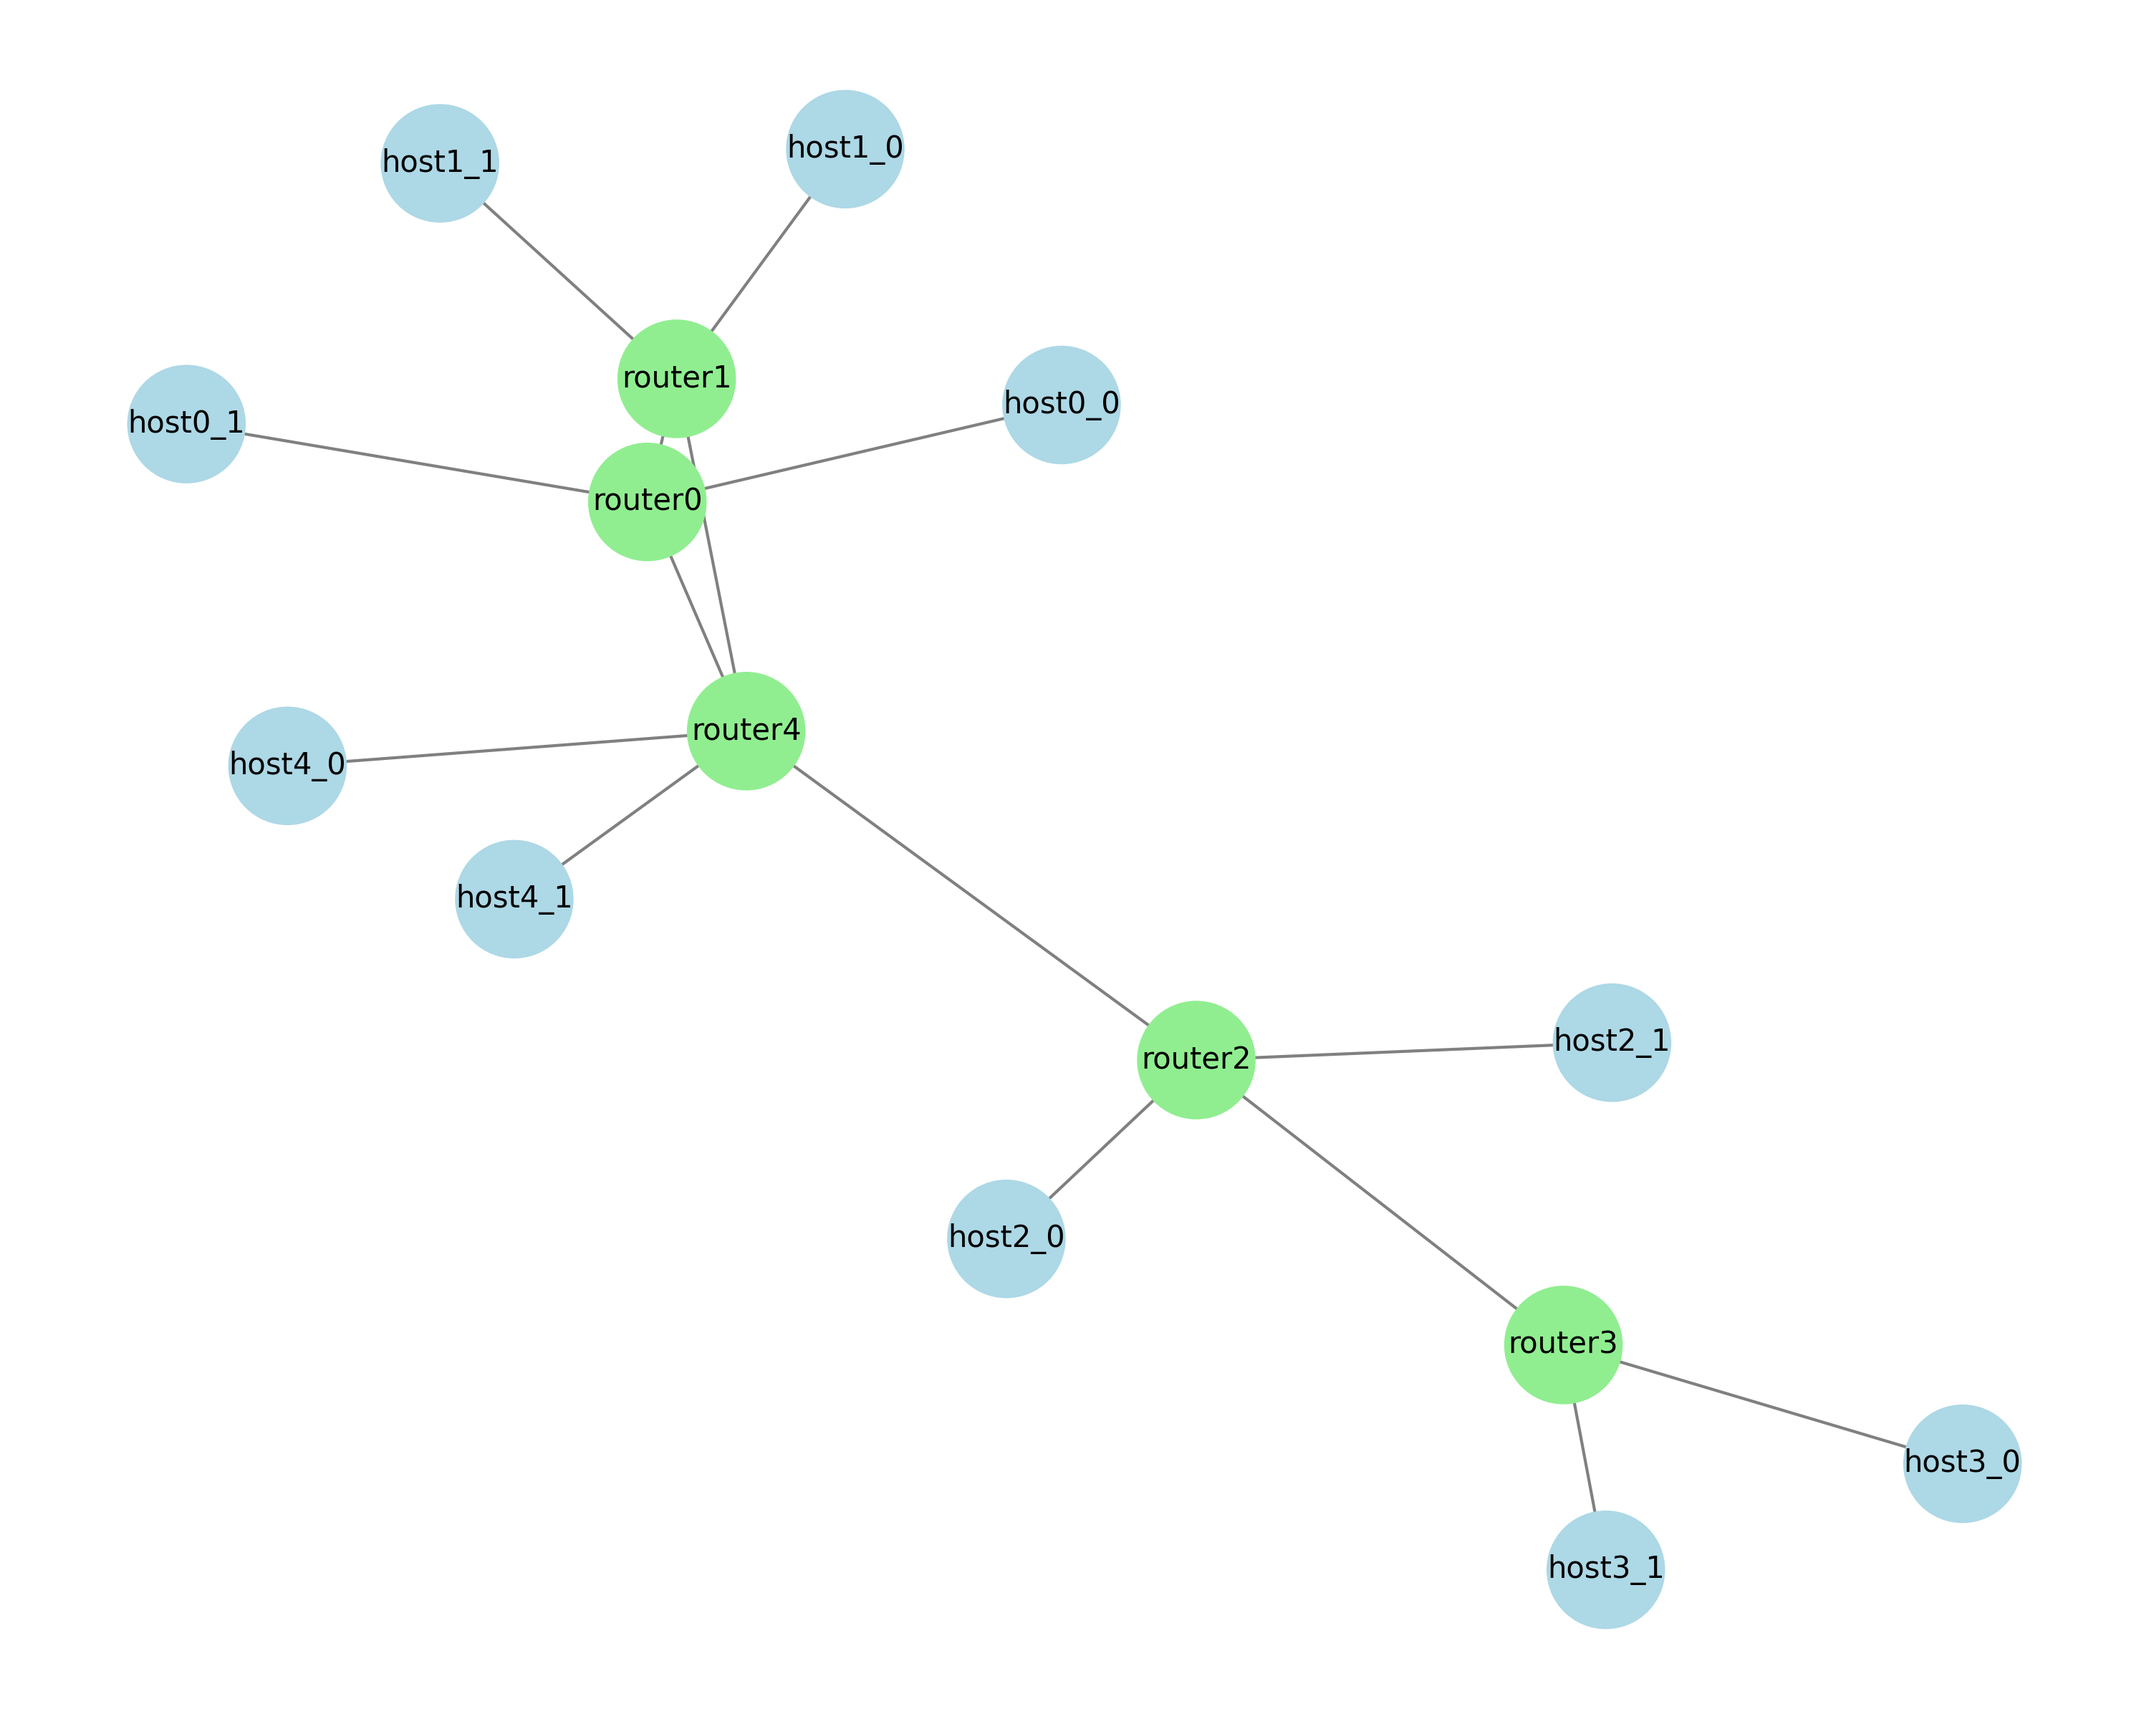
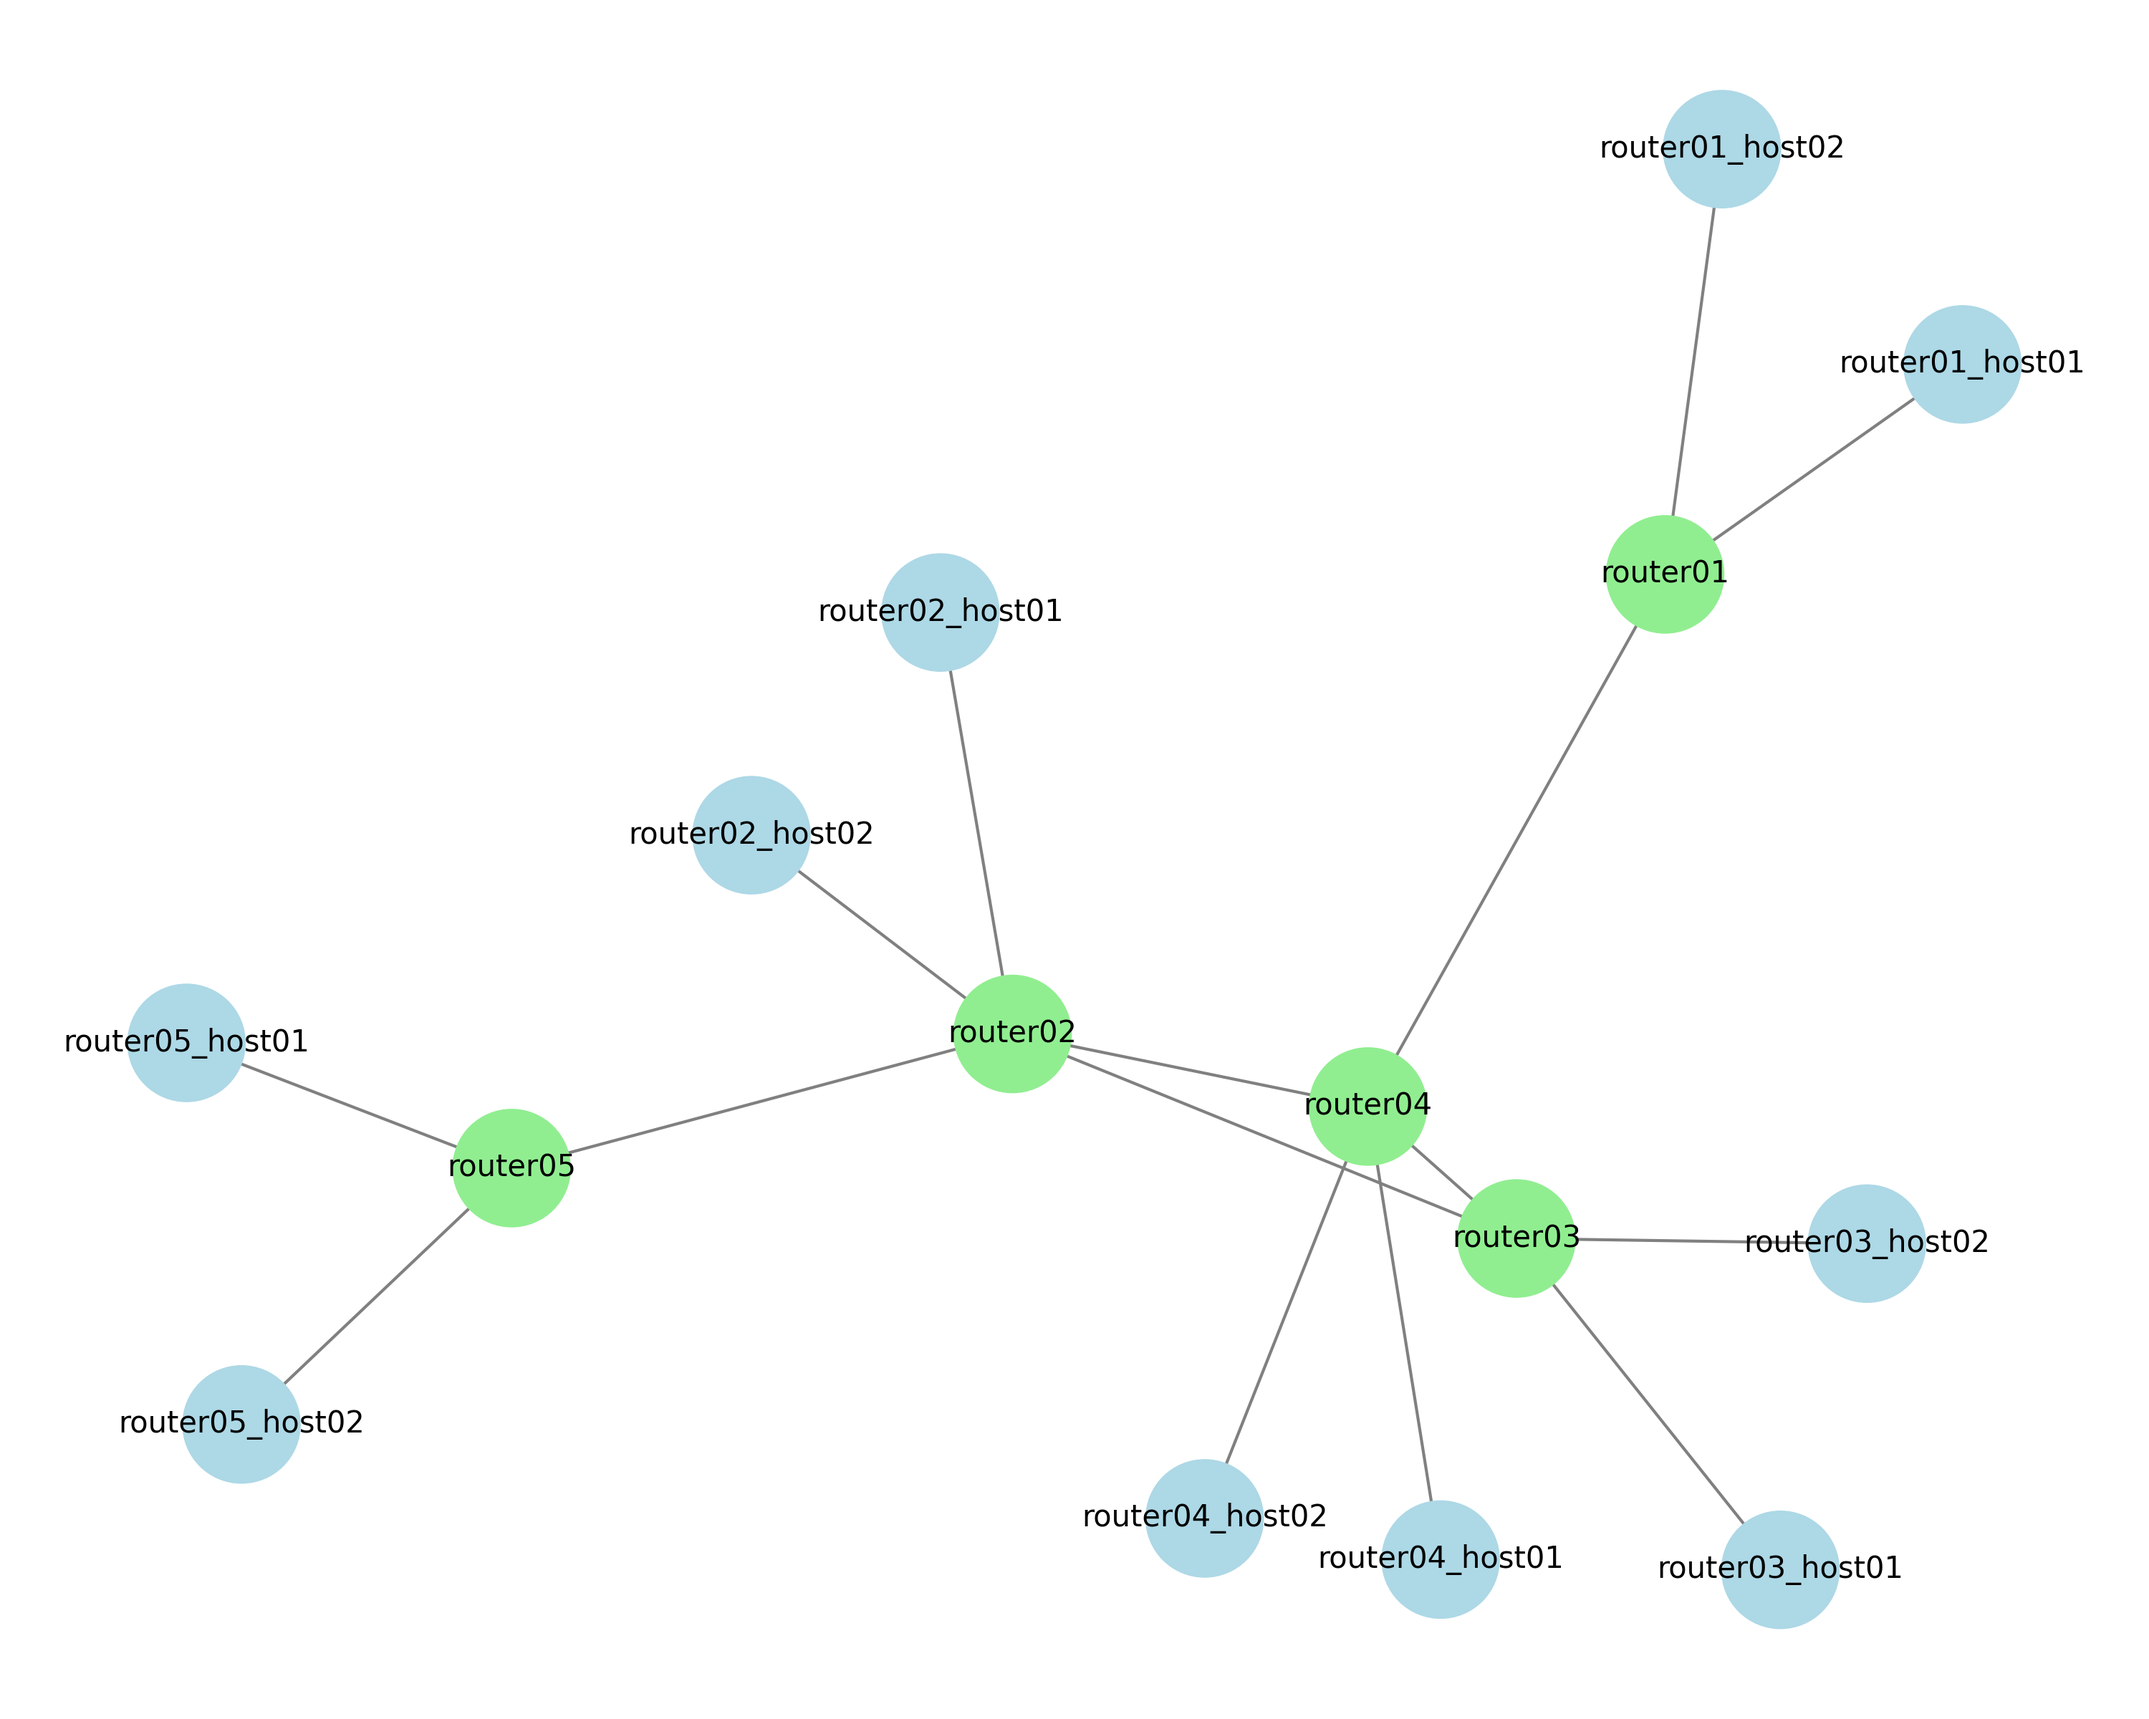
testando llsa

diff --git a/gerar_composer.py b/gerar_composer.py
@@ -1,10 +1,3 @@
-"""
-Este script gera:
-- docker-compose.yml com a topologia simulada (roteadores + hosts)
-- Topologia_rede.png com o grafo visual
-- conexoes_rede.csv com as conexões: Origem, Destino, Custo
-"""
-
 import networkx as nx
 import random
 import yaml
@@ -36,19 +29,20 @@ with open("conexoes_rede.csv", mode='w', newline='') as csvfile:
 
     # Criar roteadores e hosts
     for r in grafo.nodes():
-        router_name = f"router{r}"
+        router_name = f"router{r+1:02d}"  # Nomenclatura ajustada para router01, router02, etc.
         router_networks = []
 
         for h in range(hosts_por_roteador):
-            host_name = f"host{r}_{h}"
-            net_name = f"net_r{r}_h{h}"
+            host_name = f"{router_name}_host{h+1:02d}"  # Nomenclatura ajustada para router01_host01, router01_host02, etc.
+            net_name = f"{router_name}_host{h+1:02d}_net"
             subnet = f"192.168.{subrede_base}.0/24"
-            ip_host = f"192.168.{subrede_base}.10"
+            ip_host = f"192.168.{subrede_base}.2"
             ip_router = f"192.168.{subrede_base}.1"
 
             # Host
             compose['services'][host_name] = {
                 'build': './host',
+                'container_name': host_name,
                 'networks': {
                     net_name: {'ipv4_address': ip_host}
                 }
@@ -60,40 +54,39 @@ with open("conexoes_rede.csv", mode='w', newline='') as csvfile:
                 'ipam': {'config': [{'subnet': subnet}]}
             }
 
-            # Roteador
             router_networks.append({net_name: {'ipv4_address': ip_router}})
-
-            # CSV: host → roteador
             writer.writerow([host_name, router_name, '-'])
-
             subrede_base += 1
 
-        # Roteador final
+        # Roteador
         compose['services'][router_name] = {
             'build': './router',
+            'container_name': router_name,
+            'volumes': ['./router/router.py:/app/router.py'],
+            'cap_add': ['NET_ADMIN'],
             'networks': {}
         }
         for net in router_networks:
             compose['services'][router_name]['networks'].update(net)
 
-    # Conectar roteadores entre si
+    # Conexões ponto-a-ponto entre roteadores
     for (u, v, d) in grafo.edges(data=True):
-        net_name = f"net_r{u}_r{v}"
-        subnet = f"10.{pontoaponto_base}.0.0/30"
-        ip_u = f"10.{pontoaponto_base}.0.1"
-        ip_v = f"10.{pontoaponto_base}.0.2"
+        router_u = f"router{u+1:02d}"  # Ajuste para router01, router02, etc.
+        router_v = f"router{v+1:02d}"  # Ajuste para router01, router02, etc.
+        net_name = f"{router_u}_{router_v}_net"
+        subnet = f"10.10.{pontoaponto_base}.0/30"
+        ip_u = f"10.10.{pontoaponto_base}.1"
+        ip_v = f"10.10.{pontoaponto_base}.2"
 
         compose['networks'][net_name] = {
             'driver': 'bridge',
             'ipam': {'config': [{'subnet': subnet}]}
         }
 
-        compose['services'][f'router{u}']['networks'][net_name] = {'ipv4_address': ip_u}
-        compose['services'][f'router{v}']['networks'][net_name] = {'ipv4_address': ip_v}
+        compose['services'][router_u]['networks'][net_name] = {'ipv4_address': ip_u}
+        compose['services'][router_v]['networks'][net_name] = {'ipv4_address': ip_v}
 
-        # CSV: roteador ↔ roteador com custo
-        writer.writerow([f"router{u}", f"router{v}", d['weight']])
-
+        writer.writerow([router_u, router_v, d['weight']])
         pontoaponto_base += 1
 
 # Salvar docker-compose.yml
@@ -104,15 +97,15 @@ print("✅ docker-compose.yml gerado!")
 # Criar imagem da topologia
 visual_grafo = nx.Graph()
 for r in grafo.nodes():
-    router_name = f"router{r}"
+    router_name = f"router{r+1:02d}"
     visual_grafo.add_node(router_name, type='router')
     for h in range(hosts_por_roteador):
-        host_name = f"host{r}_{h}"
+        host_name = f"{router_name}_host{h+1:02d}"
         visual_grafo.add_node(host_name, type='host')
         visual_grafo.add_edge(router_name, host_name)
 
 for (u, v) in grafo.edges():
-    visual_grafo.add_edge(f"router{u}", f"router{v}")
+    visual_grafo.add_edge(f"router{u+1:02d}", f"router{v+1:02d}")
 
 node_colors = [
     'lightgreen' if data['type'] == 'router' else 'lightblue'

diff --git a/router/router.py b/router/router.py
@@ -1,7 +1,56 @@
 import time
-import socket
+import csv
+import networkx as nx
 
-print(" Roteador iniciado.")
-while True:
-    print(" Aguardando pacotes...")
-    time.sleep(5)
+# Função para construir o grafo a partir do CSV
+def construir_grafo_do_csv(caminho_csv):
+    grafo = nx.Graph()
+    with open(caminho_csv, newline='') as csvfile:
+        leitor = csv.reader(csvfile)
+        next(leitor)  # Pula o cabeçalho
+        for origem, destino, custo in leitor:
+            # Verifica se o custo é um número inteiro válido
+            try:
+                custo_int = int(custo)
+                grafo.add_edge(origem.strip(), destino.strip(), weight=custo_int)
+            except ValueError:
+                print(f"Valor inválido para o custo entre {origem.strip()} e {destino.strip()}: {custo}. Ignorando essa linha.")
+    return grafo
+
+# Função para construir o pacote HELLO
+def construir_pacote_hello(router_id, interface="eth0"):
+    return {
+        "type": "HELLO",
+        "router_id": router_id,
+        "timestamp": int(time.time()),
+        "interface": interface
+    }
+
+# Função para construir o pacote LSA
+def construir_pacote_lsa(router_id, vizinhos, numero_sequencia):
+    return {
+        "type": "LSA",
+        "router_id": router_id,
+        "timestamp": round(time.time(), 2),
+        "sequence_number": numero_sequencia,
+        "links": [{"neighbor_id": vizinho, "cost": custo} for vizinho, custo in vizinhos]
+    }
+
+# Função principal para simular o protocolo LSD
+def simular_protocolo_lsd(caminho_csv):
+    grafo = construir_grafo_do_csv(caminho_csv)
+    numero_sequencia = 1
+    for roteador in grafo.nodes:
+        print(f"\n[ROTEADOR {roteador}] Enviando pacotes HELLO para vizinhos...")
+        for vizinho in grafo.neighbors(roteador):
+            pacote_hello = construir_pacote_hello(roteador)
+            print(f"-> HELLO para {vizinho}: {pacote_hello}")
+
+        vizinhos_info = [(vizinho, grafo[roteador][vizinho]["weight"]) for vizinho in grafo.neighbors(roteador)]
+        pacote_lsa = construir_pacote_lsa(roteador, vizinhos_info, numero_sequencia)
+        print(f"\n[ROTEADOR {roteador}] Pacote LSA gerado:")
+        print(pacote_lsa)
+        numero_sequencia += 1
+
+if __name__ == "__main__":
+    simular_protocolo_lsd("conexoes_rede.csv")
